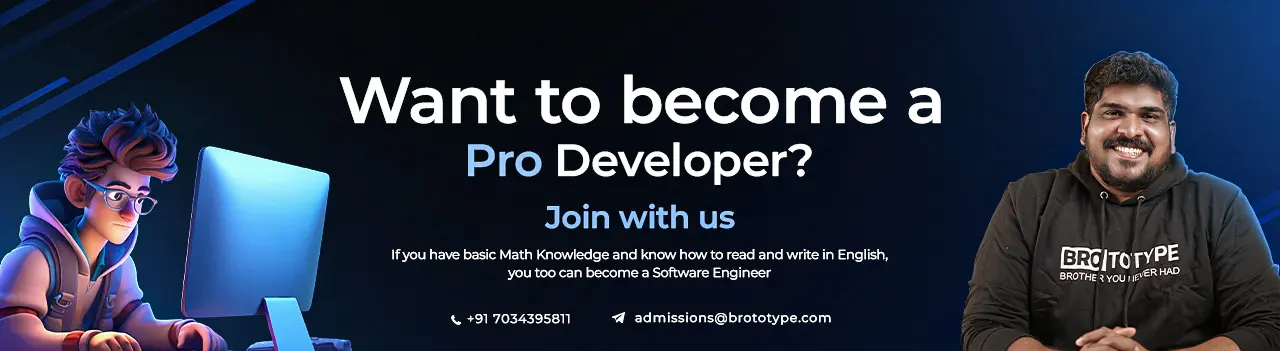
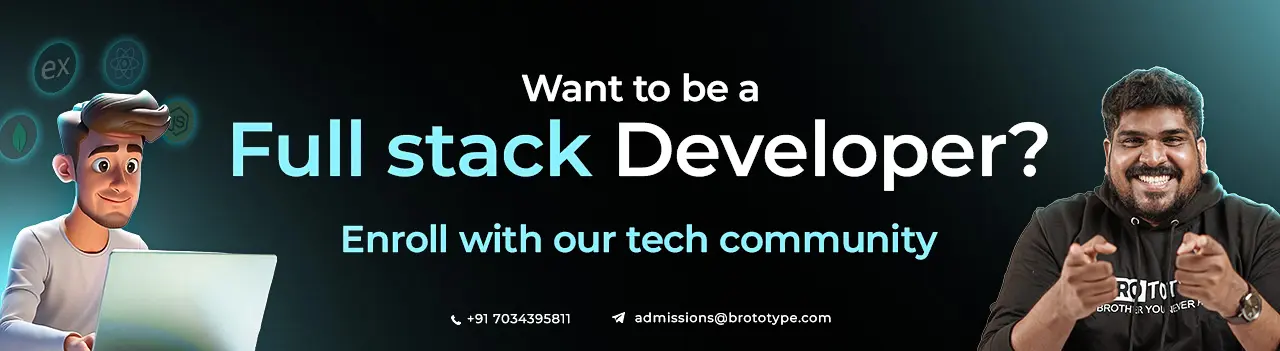
added animations

diff --git a/Styles/main-content.css b/Styles/main-content.css
@@ -4,9 +4,60 @@
     top: 90px;
     width: 1235px;
 }
+.main-banner{
+    overflow: hidden;
+}
 
-.main-banner img{
-    width: 100%;
+.main-banner figure{
+     position: relative;
+     width: 400%;
+     margin: 0;
+     left: 0;
+     animation: slideleft 10s ease-in-out infinite;
+}
+
+@keyframes slideleft{
+    0%{
+        left: 0%;
+    }
+    15%{
+        left: 0%;
+    }
+    24%{
+        left: 0%;
+    }
+    25%{
+        left: -100%;
+    }
+    40%{
+        left: -100%;
+    }
+    49%{
+        left: -100%;
+    }
+    50%{
+        left: -200%;
+    }
+    65%{
+        left: -200%;
+    }
+    74%{
+        left: -200%;
+    }
+    75%{
+        left: -300%;
+    }
+    90%{
+        left: -300%;
+    }
+    99%{
+        left: -300%;
+    }
+}
+
+.main-banner figure img{
+    width: 25%;
+    float: left;
     border-radius: 10px;
 }
 

diff --git a/index.html b/index.html
@@ -82,7 +82,12 @@
     </nav>
     <main class="main-content">
         <div class="main-banner">
-            <img src="Resource/Banner/banner_1.webp" alt="">
+            <figure>
+                <img src="Resource/Banner/banner_1.webp" alt="">
+                <img src="Resource/Banner/banner_2.webp" alt="">
+                <img src="Resource/Banner/banner_3.webp" alt="">
+                <img src="Resource/Banner/banner_4.webp" alt="">
+            </figure> 
         </div>
         <div class="main-category">
             <button>All</button>
